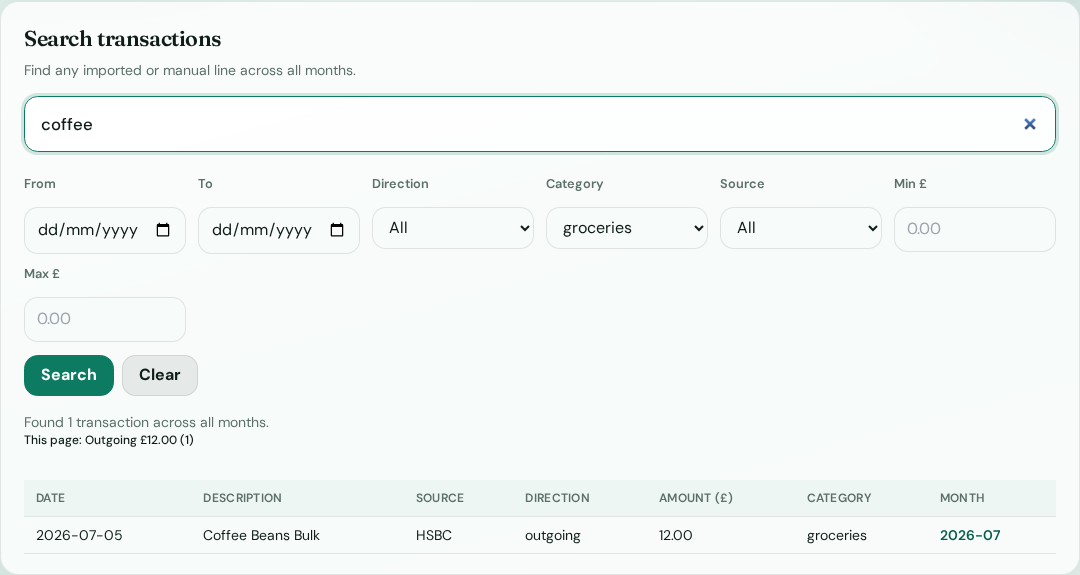
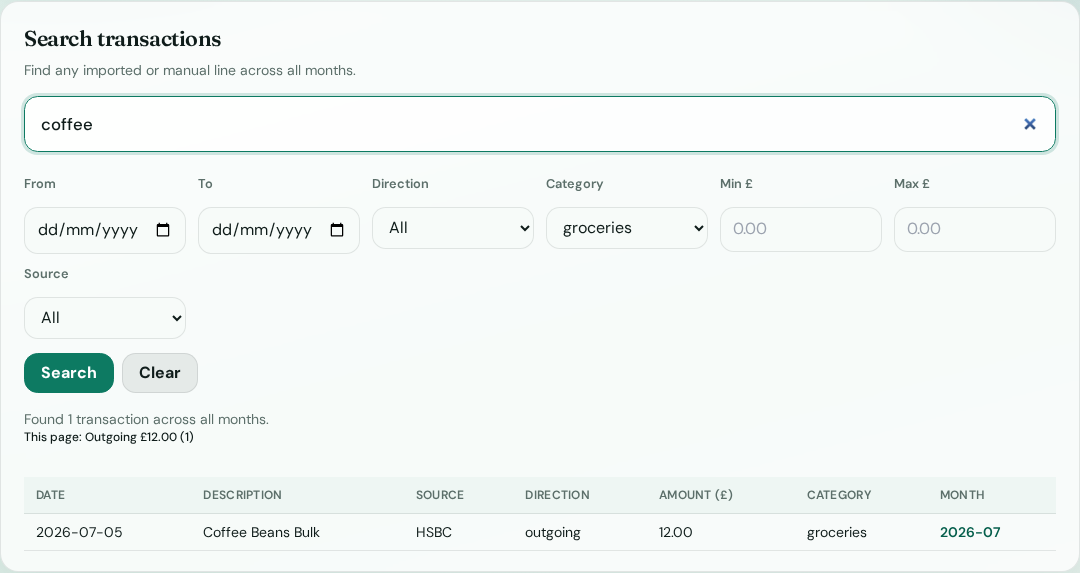
Make Search results card-style on mobile
Replace the cramped wide results table under 640px with stacked
cards (description + amount hero, clearer meta), pair Min/Max
filters, and refresh mobile playthrough screenshots.

diff --git a/static/style.css b/static/style.css
@@ -4314,6 +4314,14 @@ body.search-page {
     min-width: 0;
 }
 
+.search-filter-field--min {
+    grid-column: auto;
+}
+
+.search-filter-field--max {
+    grid-column: auto;
+}
+
 .search-filter-field .spending-control {
     width: 100%;
     min-width: 0;
@@ -4337,6 +4345,7 @@ body.search-page {
     display: none;
 }
 
+/* Mobile: stacked result cards instead of a cramped wide table */
 @media (max-width: 640px) {
     .search-q-input {
         font-size: 1rem;
@@ -4345,6 +4354,194 @@ body.search-page {
 
     .search-filters {
         grid-template-columns: repeat(2, minmax(0, 1fr));
+        gap: 0.75rem;
+    }
+
+    .search-filter-field .import-label {
+        font-size: 0.72rem;
+    }
+
+    body.search-page .search-tx-scroll {
+        overflow-x: visible;
+        margin-left: -0.15rem;
+        margin-right: -0.15rem;
+    }
+
+    /* Override monthly table mobile rule (display:table + max-content width). */
+    body.search-page .search-tx-scroll > table.search-tx-table {
+        display: block;
+        width: 100%;
+        min-width: 0;
+        max-width: 100%;
+    }
+
+    body.search-page .search-tx-thead {
+        position: absolute;
+        width: 1px;
+        height: 1px;
+        padding: 0;
+        margin: -1px;
+        overflow: hidden;
+        clip: rect(0, 0, 0, 0);
+        white-space: nowrap;
+        border: 0;
+    }
+
+    body.search-page .search-tx-tbody {
+        display: flex;
+        flex-direction: column;
+        gap: 0.7rem;
+    }
+
+    body.search-page .search-tx-tbody tr.search-tx-row {
+        display: grid;
+        grid-template-columns: minmax(0, 1fr) auto;
+        grid-template-areas:
+            "desc amount"
+            "date dir"
+            "cat cat"
+            "source month";
+        column-gap: 0.85rem;
+        row-gap: 0.55rem;
+        align-items: baseline;
+        margin: 0;
+        padding: 1.05rem 1.15rem;
+        border: 1px solid var(--line) !important;
+        border-radius: 1rem;
+        background: rgba(255, 255, 255, 0.82);
+        box-shadow: 0 8px 20px rgba(15, 40, 34, 0.045);
+    }
+
+    body.search-page .search-tx-tbody tr.search-tx-row:nth-child(even) {
+        background: rgba(255, 255, 255, 0.92);
+    }
+
+    body.search-page .search-tx-tbody tr.search-tx-row:hover {
+        background: rgba(255, 255, 255, 0.97);
+    }
+
+    body.search-page .search-tx-tbody tr.search-tx-row--muted {
+        opacity: 0.72;
+    }
+
+    body.search-page .search-tx-tbody td {
+        border: 0;
+        padding: 0;
+        min-width: 0;
+        white-space: normal;
+        font-size: 0.92rem;
+        line-height: 1.4;
+        color: var(--ink);
+    }
+
+    body.search-page .search-tx-desc {
+        grid-area: desc;
+        font-family: var(--font-body, inherit);
+        font-size: 1.05rem;
+        font-weight: 600;
+        letter-spacing: -0.01em;
+        word-break: break-word;
+        padding-right: 0.35rem;
+    }
+
+    body.search-page .search-tx-amount {
+        grid-area: amount;
+        justify-self: end;
+        text-align: right;
+        font-size: 1.12rem;
+        font-weight: 700;
+        font-variant-numeric: tabular-nums;
+        color: var(--ink);
+        white-space: nowrap;
+    }
+
+    body.search-page .search-tx-amount::before {
+        content: "£";
+        font-weight: 600;
+        margin-right: 0.05rem;
+        color: var(--muted);
+    }
+
+    body.search-page .search-tx-date {
+        grid-area: date;
+        color: var(--muted);
+        font-size: 0.86rem;
+        font-variant-numeric: tabular-nums;
+    }
+
+    body.search-page .search-tx-dir {
+        grid-area: dir;
+        justify-self: end;
+        text-align: right;
+        color: var(--muted);
+        font-size: 0.86rem;
+        text-transform: capitalize;
+    }
+
+    body.search-page .search-tx-cat {
+        grid-area: cat;
+        color: var(--muted);
+        font-size: 0.86rem;
+        text-transform: capitalize;
+        padding-top: 0.05rem;
+        border-top: 1px solid rgba(15, 40, 34, 0.06);
+        padding-top: 0.5rem;
+    }
+
+    body.search-page .search-tx-cat::before {
+        content: "Category ";
+        font-weight: 600;
+        letter-spacing: 0.02em;
+        text-transform: uppercase;
+        font-size: 0.68rem;
+        color: var(--muted);
+    }
+
+    body.search-page .search-tx-source {
+        grid-area: source;
+        font-size: 0.84rem;
+        color: var(--muted);
+        padding-top: 0.1rem;
+    }
+
+    body.search-page .search-tx-source::before {
+        content: attr(data-label) " ";
+        font-weight: 600;
+        letter-spacing: 0.02em;
+        text-transform: uppercase;
+        font-size: 0.68rem;
+    }
+
+    body.search-page .search-tx-month {
+        grid-area: month;
+        justify-self: end;
+        text-align: right;
+        font-size: 0.86rem;
+        padding-top: 0.1rem;
+    }
+
+    body.search-page .search-tx-month::before {
+        content: attr(data-label) " ";
+        color: var(--muted);
+        font-weight: 600;
+        letter-spacing: 0.02em;
+        text-transform: uppercase;
+        font-size: 0.68rem;
+    }
+
+    .search-filters {
+        gap: 0.85rem 0.85rem;
+    }
+
+    .search-filter-field--source {
+        grid-column: 1 / -1;
+    }
+
+    .search-filter-field .spending-control {
+        min-height: 2.5rem;
+        padding-top: 0.45rem;
+        padding-bottom: 0.45rem;
     }
 }
+
 

diff --git a/templates/spending_search.html b/templates/spending_search.html
@@ -59,7 +59,15 @@
                             {% endfor %}
                         </select>
                     </div>
-                    <div class="search-filter-field">
+                    <div class="search-filter-field search-filter-field--min">
+                        <label for="tx-search-min-amount" class="import-label">Min £</label>
+                        <input id="tx-search-min-amount" class="spending-control" type="text" inputmode="decimal" name="min_amount" placeholder="0.00" autocomplete="off" />
+                    </div>
+                    <div class="search-filter-field search-filter-field--max">
+                        <label for="tx-search-max-amount" class="import-label">Max £</label>
+                        <input id="tx-search-max-amount" class="spending-control" type="text" inputmode="decimal" name="max_amount" placeholder="0.00" autocomplete="off" />
+                    </div>
+                    <div class="search-filter-field search-filter-field--source">
                         <label for="tx-search-source" class="import-label">Source</label>
                         <select id="tx-search-source" class="spending-control" name="source">
                             <option value="">All</option>
@@ -68,14 +76,6 @@
                             {% endfor %}
                             <option value="__none__">(none)</option>
                         </select>
-                    </div>
-                    <div class="search-filter-field">
-                        <label for="tx-search-min-amount" class="import-label">Min £</label>
-                        <input id="tx-search-min-amount" class="spending-control" type="text" inputmode="decimal" name="min_amount" placeholder="0.00" autocomplete="off" />
-                    </div>
-                    <div class="search-filter-field">
-                        <label for="tx-search-max-amount" class="import-label">Max £</label>
-                        <input id="tx-search-max-amount" class="spending-control" type="text" inputmode="decimal" name="max_amount" placeholder="0.00" autocomplete="off" />
                     </div>
                 </div>
 
@@ -88,9 +88,9 @@
             <p id="tx-search-status" class="spending-hint text-sm mt-4" role="status" aria-live="polite">Type a query or set a filter, then search.</p>
             <p id="tx-search-rollup" class="insight-tx-amount-rollup text-xs mt-1 hidden" role="status" aria-live="polite"></p>
 
-            <div class="spending-tx-scroll mt-4">
-                <table class="spending-tx-table min-w-full text-sm" id="tx-search-results-table" aria-label="Search results">
-                    <thead>
+            <div class="spending-tx-scroll mt-4 search-tx-scroll">
+                <table class="spending-tx-table search-tx-table min-w-full text-sm" id="tx-search-results-table" aria-label="Search results">
+                    <thead class="search-tx-thead">
                         <tr class="text-left text-xs uppercase tracking-wide" style="color: var(--muted);">
                             <th scope="col" class="px-3 py-2.5 whitespace-nowrap">Date</th>
                             <th scope="col" class="px-3 py-2.5 min-w-[8rem]">Description</th>
@@ -101,7 +101,7 @@
                             <th scope="col" class="px-3 py-2.5 whitespace-nowrap">Month</th>
                         </tr>
                     </thead>
-                    <tbody id="tx-search-tbody" class="spending-tx-tbody"></tbody>
+                    <tbody id="tx-search-tbody" class="spending-tx-tbody search-tx-tbody"></tbody>
                 </table>
             </div>
 

diff --git a/static/spending_search.js b/static/spending_search.js
@@ -193,18 +193,19 @@
                         : '<span class="spending-muted">—</span>';
                 const muted =
                     (tx.internal_transfer && tx.transfer_pair_id) || tx.insights_excluded === true
-                        ? ' spending-insight-tx-muted'
+                        ? ' search-tx-row--muted spending-insight-tx-muted'
                         : '';
                 const amt = Number(tx.amount);
                 const amtStr = Number.isFinite(amt) ? amt.toFixed(2) : escapeHtml(tx.amount);
-                return `<tr class="border-t${muted}" style="border-color: var(--border-color);" data-tx-id="${escapeHtml(tx.id || '')}">
-                    <td class="px-3 py-2 whitespace-nowrap">${escapeHtml(tx.date || '')}</td>
-                    <td class="px-3 py-2">${escapeHtml(tx.description || '')}</td>
-                    <td class="px-3 py-2">${src}</td>
-                    <td class="px-3 py-2 whitespace-nowrap">${escapeHtml(tx.direction || '')}</td>
-                    <td class="px-3 py-2 whitespace-nowrap spending-insight-tx-amount">${amtStr}</td>
-                    <td class="px-3 py-2 whitespace-nowrap">${cat}</td>
-                    <td class="px-3 py-2 whitespace-nowrap">${monthLink}</td>
+                const dir = String(tx.direction || '');
+                return `<tr class="search-tx-row border-t${muted}" style="border-color: var(--border-color);" data-tx-id="${escapeHtml(tx.id || '')}">
+                    <td class="search-tx-date px-3 py-2 whitespace-nowrap" data-label="Date">${escapeHtml(tx.date || '')}</td>
+                    <td class="search-tx-desc px-3 py-2" data-label="Description">${escapeHtml(tx.description || '')}</td>
+                    <td class="search-tx-source px-3 py-2" data-label="Source">${src}</td>
+                    <td class="search-tx-dir px-3 py-2 whitespace-nowrap" data-label="Direction">${escapeHtml(dir)}</td>
+                    <td class="search-tx-amount px-3 py-2 whitespace-nowrap spending-insight-tx-amount" data-label="Amount (£)">${amtStr}</td>
+                    <td class="search-tx-cat px-3 py-2 whitespace-nowrap" data-label="Category">${cat}</td>
+                    <td class="search-tx-month px-3 py-2 whitespace-nowrap" data-label="Month">${monthLink}</td>
                 </tr>`;
             })
             .join('');

diff --git a/tests/test_transaction_search.py b/tests/test_transaction_search.py
@@ -204,8 +204,12 @@ class TestTransactionSearchPage(unittest.TestCase):
     def test_assets_present(self):
         self.assertIn('grid-template-columns: repeat(5, minmax(0, 1fr))', STYLE)
         self.assertIn('.search-q-input', STYLE)
+        self.assertIn('search-tx-row', STYLE)
+        self.assertIn('body.search-page .search-tx-tbody tr.search-tx-row', STYLE)
         self.assertIn('/api/spending/transactions/search', SEARCH_JS)
         self.assertIn('tx-search-tbody', SEARCH_JS)
+        self.assertIn('search-tx-row', SEARCH_JS)
+        self.assertIn('data-label', SEARCH_JS)
 
 
 if __name__ == '__main__':
